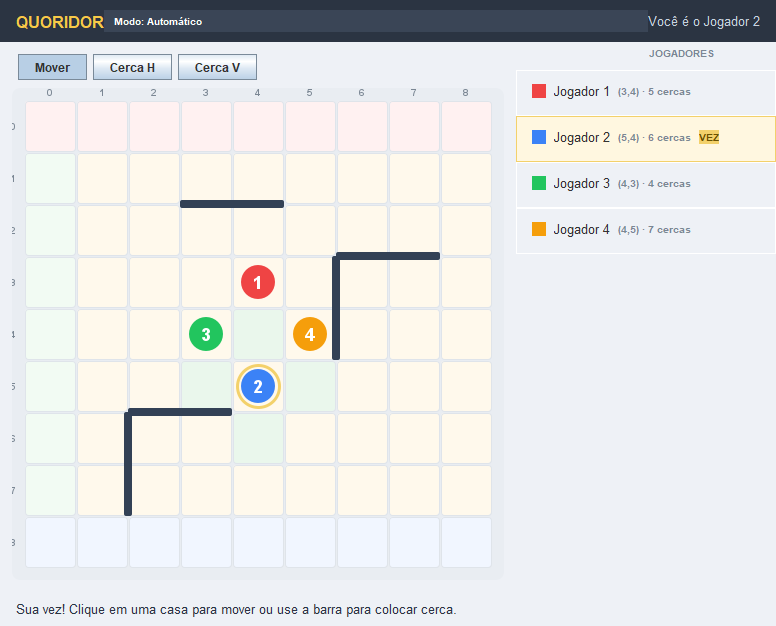
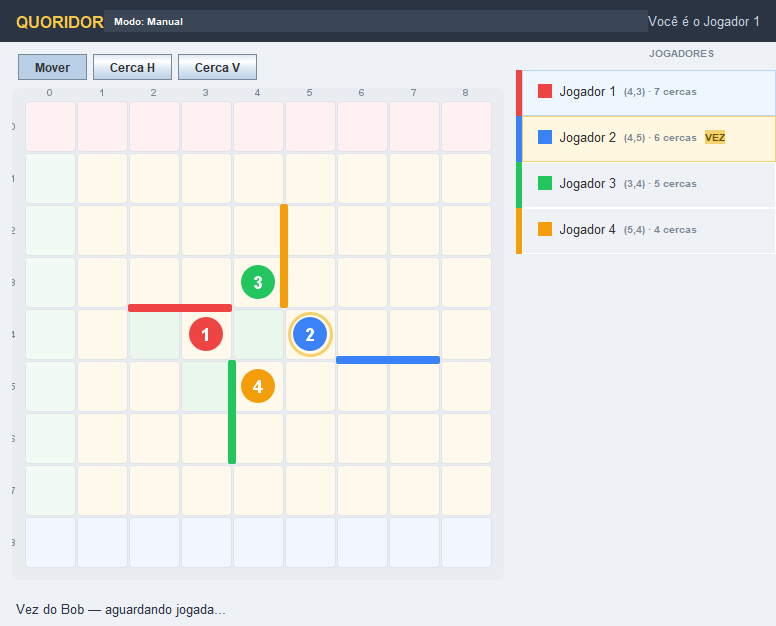
feat: ritmo mais lento no modo automático e cercas coloridas por dono
- Modo automático com GUI em ~1 jogada/2s (partida de ~82s), com pausa de quem joga
- Cercas coloridas pela cor do jogador que as colocou (autoria no EstadoJogo)
- Barras coloridas por jogador no painel lateral
- Screenshot regenerado e docs atualizadas

diff --git a/src/main/java/common/EstadoJogo.java b/src/main/java/common/EstadoJogo.java
@@ -10,16 +10,19 @@ public class EstadoJogo implements Serializable {
 
     private final Posicao[] posicoes;
     private final List<Cerca> cercas;
+    private final int[] donosCercas;
     private final int[] cercasRestantes;
     private final int jogadorDaVez;
     private final Status status;
     private final int vencedor;
     private final String[] nomes;
 
-    public EstadoJogo(Posicao[] posicoes, List<Cerca> cercas, int[] cercasRestantes,
+    public EstadoJogo(Posicao[] posicoes, List<Cerca> cercas, int[] donosCercas,
+                      int[] cercasRestantes,
                       int jogadorDaVez, Status status, int vencedor, String[] nomes) {
         this.posicoes = posicoes.clone();
         this.cercas = List.copyOf(cercas);
+        this.donosCercas = donosCercas == null ? null : donosCercas.clone();
         this.cercasRestantes = cercasRestantes.clone();
         this.jogadorDaVez = jogadorDaVez;
         this.status = status;
@@ -30,6 +33,9 @@ public class EstadoJogo implements Serializable {
     public Posicao getPosicao(int idJogador) { return posicoes[idJogador - 1]; }
     public Posicao[] getPosicoes() { return posicoes.clone(); }
     public List<Cerca> getCercas() { return cercas; }
+    /** Dono (id 1–4) de cada cerca em {@link #getCercas()}; pode ser null se não informado. */
+    public int[] getDonosCercas() { return donosCercas == null ? null : donosCercas.clone(); }
+    public int getDonoCerca(int indice) { return donosCercas == null ? 0 : donosCercas[indice]; }
     public int[] getCercasRestantes() { return cercasRestantes.clone(); }
     public int getCercasRestantes(int idJogador) { return cercasRestantes[idJogador - 1]; }
     public int getJogadorDaVez() { return jogadorDaVez; }

diff --git a/src/main/java/client/ClientMain.java b/src/main/java/client/ClientMain.java
@@ -10,6 +10,12 @@ import java.rmi.registry.Registry;
 
 public class ClientMain {
 
+    /** Batida de ritmo no modo automático com GUI: cada bot checa o estado ~1x a cada 2s. */
+    private static final long ATRASO_AUTO_MS = 2000;
+    /** Pausa de quem joga (3x a batida): dá janela para os outros 3 jogadores agirem
+     *  e o jogo anda em ~1 jogada/2s até alguém vencer (~1 min no total). */
+    private static final long ATRASO_MOVER_MS = 6000;
+
     public static void main(String[] args) throws Exception {
         System.setProperty("java.rmi.server.hostname", "localhost");
         String nome = "Jogador";
@@ -71,9 +77,18 @@ public class ClientMain {
                     continue;
                 }
                 if (e.getStatus() == EstadoJogo.Status.FINALIZADO) break;
+                if (gui) {
+                    Thread.sleep(ATRASO_AUTO_MS);
+                    e = ui.getEstadoAtual();
+                    if (e == null) continue;
+                    if (e.getStatus() == EstadoJogo.Status.FINALIZADO) break;
+                }
                 if (e.getJogadorDaVez() == id) {
                     botJogador.executarJogada(server, e);
-                } else {
+                    // Pausa de quem joga: dá aos outros 3 uma janela de ~2s cada
+                    // para agir, mantendo o ritmo uniforme de ~1 jogada/2s.
+                    if (gui) Thread.sleep(ATRASO_MOVER_MS);
+                } else if (!gui) {
                     Thread.sleep(100);
                 }
             }

diff --git a/src/main/java/client/ui/PainelJogadores.java b/src/main/java/client/ui/PainelJogadores.java
@@ -37,7 +37,7 @@ public class PainelJogadores extends JPanel {
 
     private JPanel criarLinha(int id) {
         JPanel linha = new JPanel(new FlowLayout(FlowLayout.LEFT, 8, 6));
-        linha.setBorder(BorderFactory.createEmptyBorder(6, 8, 6, 8));
+        linha.setBorder(BorderFactory.createMatteBorder(0, 6, 0, 0, EstiloUI.COR_PEAO[id - 1]));
 
         JPanel dot = new JPanel();
         dot.setPreferredSize(new Dimension(14, 14));
@@ -74,9 +74,11 @@ public class PainelJogadores extends JPanel {
             linha.setBackground(vez ? EstiloUI.BADGE_VEZ_FUNDO
                     : voce ? EstiloUI.VOCE_FUNDO : EstiloUI.FUNDO_JANELA);
             linha.setBorder(BorderFactory.createCompoundBorder(
-                    BorderFactory.createLineBorder(vez ? EstiloUI.BADGE_VEZ_BORDA
-                            : voce ? EstiloUI.VOCE_BORDA : Color.WHITE),
-                    BorderFactory.createEmptyBorder(5, 7, 5, 7)));
+                    BorderFactory.createMatteBorder(0, 6, 0, 0, EstiloUI.COR_PEAO[id - 1]),
+                    BorderFactory.createCompoundBorder(
+                            BorderFactory.createLineBorder(vez ? EstiloUI.BADGE_VEZ_BORDA
+                                    : voce ? EstiloUI.VOCE_BORDA : Color.WHITE),
+                            BorderFactory.createEmptyBorder(5, 7, 5, 7))));
             Posicao p = e.getPosicao(id);
             metadados.get(id - 1).setText("(" + p.linha() + "," + p.coluna() + ") · "
                     + e.getCercasRestantes(id) + " cercas");

diff --git a/src/main/java/engine/Partida.java b/src/main/java/engine/Partida.java
@@ -16,6 +16,7 @@ public class Partida {
     private final String[] nomes = new String[NUM_JOGADORES];
     private final int[] cercasRestantes = new int[NUM_JOGADORES];
     private final List<Cerca> cercasColocadas = new ArrayList<>();
+    private final List<Integer> donosCercas = new ArrayList<>();
     private int jogadorDaVez = 1;
     private EstadoJogo.Status status = EstadoJogo.Status.AGUARDANDO;
     private int vencedor = 0;
@@ -70,6 +71,7 @@ public class Partida {
         }
         tabuleiro.colocarCerca(cerca);
         cercasColocadas.add(cerca);
+        donosCercas.add(idJogador);
         cercasRestantes[idJogador - 1]--;
         avancarTurno();
     }
@@ -81,8 +83,8 @@ public class Partida {
     public synchronized EstadoJogo gerarEstado() {
         Posicao[] pos = new Posicao[NUM_JOGADORES];
         for (int i = 0; i < NUM_JOGADORES; i++) pos[i] = tabuleiro.getPosicao(i + 1);
-        return new EstadoJogo(pos, new ArrayList<>(cercasColocadas), cercasRestantes.clone(),
-                jogadorDaVez, status, vencedor, nomes.clone());
+        return new EstadoJogo(pos, new ArrayList<>(cercasColocadas), donosCercas.stream().mapToInt(Integer::intValue).toArray(),
+                cercasRestantes.clone(), jogadorDaVez, status, vencedor, nomes.clone());
     }
 
     public synchronized EstadoJogo.Status getStatus() { return status; }

diff --git a/src/main/java/client/ui/TabuleiroPanel.java b/src/main/java/client/ui/TabuleiroPanel.java
@@ -152,8 +152,13 @@ public class TabuleiroPanel extends JPanel {
 
     private void desenharCercas(Graphics2D g) {
         if (estado == null) return;
-        g.setColor(EstiloUI.CERCA);
-        for (Cerca c : estado.getCercas()) desenharParede(g, c);
+        int[] donos = estado.getDonosCercas();
+        var cercas = estado.getCercas();
+        for (int i = 0; i < cercas.size(); i++) {
+            int dono = donos != null && i < donos.length ? donos[i] : 0;
+            g.setColor(dono >= 1 && dono <= 4 ? EstiloUI.COR_PEAO[dono - 1] : EstiloUI.CERCA);
+            desenharParede(g, cercas.get(i));
+        }
     }
 
     private void desenharPreview(Graphics2D g) {

diff --git a/src/test/java/engine/PartidaTest.java b/src/test/java/engine/PartidaTest.java
@@ -78,6 +78,17 @@ class PartidaTest {
     }
 
     @Test
+    void cercaColocadaRegistraODono() throws Exception {
+        Partida p = new Partida();
+        p.iniciar();
+        p.colocarCerca(1, new common.Cerca(new Posicao(0, 0), common.Orientacao.HORIZONTAL));
+        EstadoJogo e = p.gerarEstado();
+        assertEquals(1, e.getCercas().size());
+        assertEquals(1, e.getDonoCerca(0));
+        assertEquals(9, e.getCercasRestantes(1));
+    }
+
+    @Test
     void estadoInicialTemQuatroJogadoresComDezCercas() {
         Partida p = new Partida();
         EstadoJogo e = p.gerarEstado();

diff --git a/src/test/java/client/ui/PainelJogadoresTest.java b/src/test/java/client/ui/PainelJogadoresTest.java
@@ -13,7 +13,7 @@ class PainelJogadoresTest {
     @Test
     void destacaVezEVoce() {
         Posicao[] pos = { new Posicao(8, 4), new Posicao(0, 4), new Posicao(4, 8), new Posicao(4, 0) };
-        EstadoJogo e = new EstadoJogo(pos, List.of(), new int[]{10, 9, 8, 7},
+        EstadoJogo e = new EstadoJogo(pos, List.of(), new int[0], new int[]{10, 9, 8, 7},
                 3, EstadoJogo.Status.EM_ANDAMENTO, 0, new String[]{"Ana", "Bob", "Cid", "Duda"});
         PainelJogadores p = new PainelJogadores();
         p.atualizar(e, 2);

diff --git a/src/test/java/client/ui/TabuleiroPanelTest.java b/src/test/java/client/ui/TabuleiroPanelTest.java
@@ -34,7 +34,7 @@ class TabuleiroPanelTest {
 
     private EstadoJogo estadoJ1() {
         Posicao[] pos = { new Posicao(8, 4), new Posicao(0, 4), new Posicao(4, 8), new Posicao(4, 0) };
-        return new EstadoJogo(pos, List.of(), new int[]{10, 10, 10, 10},
+        return new EstadoJogo(pos, List.of(), new int[0], new int[]{10, 10, 10, 10},
                 1, EstadoJogo.Status.EM_ANDAMENTO, 0, new String[]{"Ana", "Bob", "Cid", "Duda"});
     }
 

diff --git a/src/test/java/client/ui/GraphicUITest.java b/src/test/java/client/ui/GraphicUITest.java
@@ -14,7 +14,7 @@ class GraphicUITest {
 
     private EstadoJogo estado() {
         Posicao[] pos = { new Posicao(8, 4), new Posicao(0, 4), new Posicao(4, 8), new Posicao(4, 0) };
-        return new EstadoJogo(pos, List.of(), new int[]{10, 10, 10, 10},
+        return new EstadoJogo(pos, List.of(), new int[0], new int[]{10, 10, 10, 10},
                 1, EstadoJogo.Status.EM_ANDAMENTO, 0, new String[]{"Ana", "Bob", "Cid", "Duda"});
     }
 

diff --git a/docs/relatorio.md b/docs/relatorio.md
@@ -133,10 +133,12 @@ O modo é escolhido por `--modo manual|auto` ou, na ausência da flag, por um di
 
 Paleta *flat* centralizada em `EstiloUI`: fundo `#eef1f6`, topo escuro `#2b3442` com título dourado `#f7c948`, peões vermelho/azul/verde/âmbar, badge de vez dourado e realce azul para o jogador local. Cantos arredondados em casas, peças e painéis — sem dependências externas (apenas `java.desktop` da JDK, mantendo o jar único).
 
+Para facilitar a identificação visual, cada **cerca é pintada com a cor do jogador que a colocou** (a autoria de cada cerca é carregada no próprio `EstadoJogo`, numa lista paralela de donos preenchida pelo `Partida`), e cada linha do painel lateral de jogadores tem uma **barra vertical na cor do respectivo jogador**.
+
 ### 7.4 Validação
 
 - **13 novos testes JUnit** (pacote `client.ui`): `GeometriaTest` (pixel ↔ casa/aresta), `TabuleiroPanelTest` (clique → `Posicao`/`Cerca` via eventos sintéticos), `PainelJogadoresTest`, `BarraStatusTest` e `GraphicUITest` (construção e troca de estado sem abrir janela).
-- **Demo automática executada (2026-08-28):** 1 servidor + 4 clientes `--gui --modo auto` jogaram uma partida completa até `[FIM] vencedor=4 (Bot4)`, com a janela exibindo o tabuleiro evoluindo. A captura está em `docs/img/quoridor-gui.png`.
+- **Demo automática executada (2026-08-28):** 1 servidor + 4 clientes `--gui --modo auto` jogaram uma partida completa até `[FIM] vencedor=4 (Bot4)`, com a janela exibindo o tabuleiro evoluindo em ~1 jogada/2s (partida de ~82s), tempo suficiente para acompanhar cada jogada e cada cerca colorida. A captura está em `docs/img/quoridor-gui.png`.
 
 ## 8. Testes e validação
 

diff --git a/README.md b/README.md
@@ -75,7 +75,7 @@ Cada bot decide sua jogada automaticamente: avança em direção à própria met
 
 ## Interface gráfica (Swing)
 
-O cliente também possui uma **interface gráfica em Java Swing** com visual "Moderno Plano" — tabuleiro 9×9 com casas, peões coloridos, cercas e destaque da vez, painel lateral de jogadores e barra de status. Para abri-la, use a flag `--gui`:
+O cliente também possui uma **interface gráfica em Java Swing** com visual "Moderno Plano" — tabuleiro 9×9 com casas, peões coloridos, cercas e destaque da vez, painel lateral de jogadores e barra de status. As **cercas são coloridas pela cor do jogador que as colocou** e cada linha do painel lateral tem uma **barra na cor do jogador**, para identificar rapidamente quem montou cada barreira e quem é quem. Para abri-la, use a flag `--gui`:
 
 ```bash
 java -cp target/classes client.ClientMain --gui --nome Jogador1
@@ -87,7 +87,7 @@ Quando for a sua vez, as **casas destino legais** são destacadas no tabuleiro; 
 
 ### Modo Automático (demonstração)
 
-A janela apenas **exibe** a partida evoluindo sozinha em tempo real, com os 4 processos jogando como bots — ideal para demonstrar o jogo completo sem intervenção:
+A janela apenas **exibe** a partida evoluindo sozinha em tempo real, com os 4 processos jogando como bots em um ritmo lento (~1 jogada/2s, partida de ~1 min) — ideal para demonstrar o jogo completo sem intervenção:
 
 ```bash
 java -cp target/classes client.ClientMain --gui --modo auto --nome Bot1
